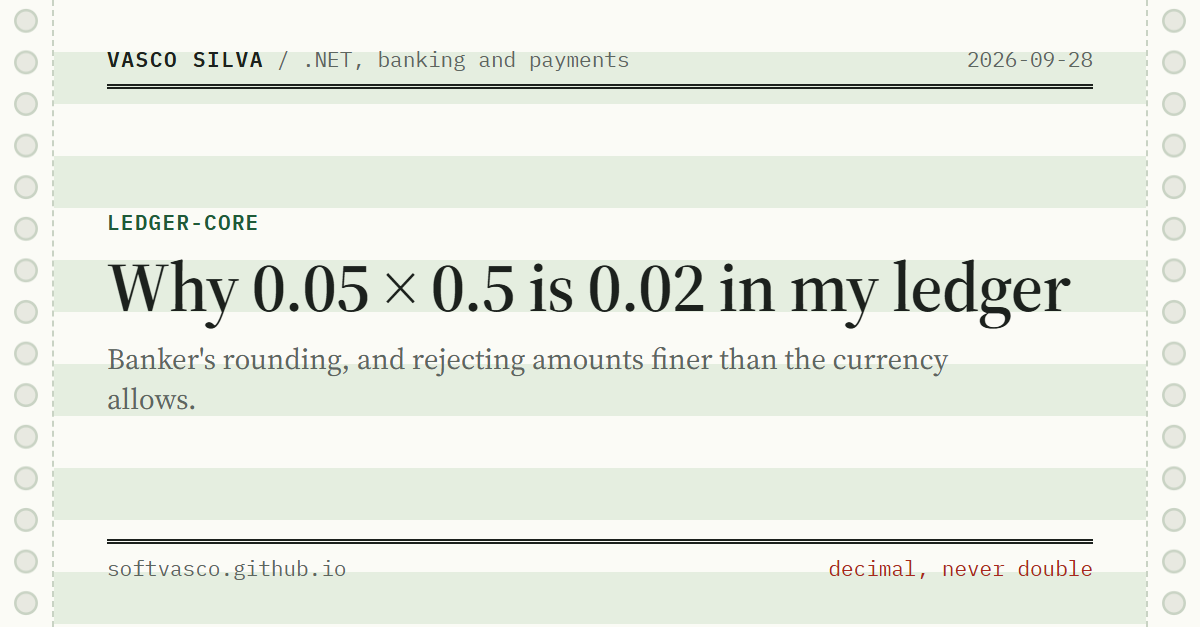
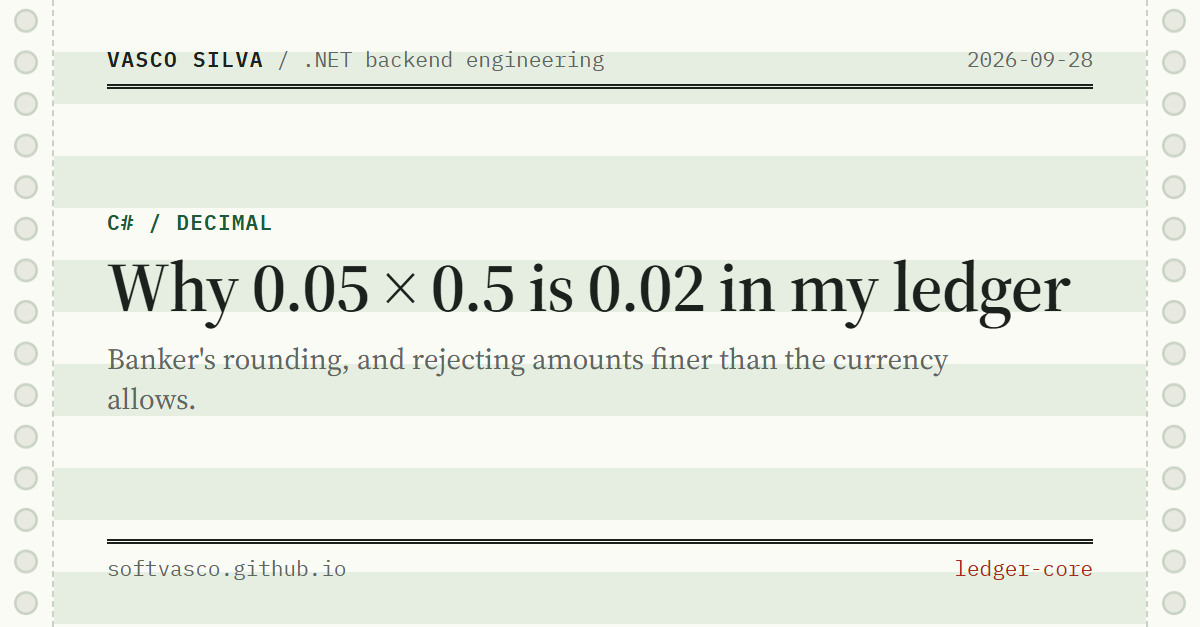
docs(site): present the site as general backend work

Changed region(s): [[0.6783, 0.8788, 0.8942, 0.9394], [0.3083, 0.0909, 0.5242, 0.1212], [0.0925, 0.3333, 0.2158, 0.3636]]

diff --git a/index.html b/index.html
@@ -2,8 +2,8 @@
 layout: default
 ---
 <section class="intro">
-  <p>I'm a senior .NET backend engineer in Lisbon. I've spent more than twelve years on systems for central and retail banks.</p>
-  <p>This year I'm writing open-source versions of two things I know from that work: a double-entry <a href="https://github.com/softvasco/ledger-core">ledger</a> and a <a href="https://github.com/softvasco/payee-match">Verification of Payee</a> name matcher. When something in them takes more thought than expected, I write it up here.</p>
+  <p>I'm a senior .NET backend engineer in Lisbon. I've spent more than twelve years building APIs, event-driven services and migrations of old systems onto current .NET, most of it for banks.</p>
+  <p>This year I'm building open-source projects in public, starting with an event-sourced <a href="https://github.com/softvasco/ledger-core">ledger</a> and a <a href="https://github.com/softvasco/payee-match">name matcher</a>. When something in them takes more thought than expected, I write it up here.</p>
 </section>
 
 <ul class="posts">

diff --git a/_layouts/default.html b/_layouts/default.html
@@ -26,7 +26,7 @@
         <a href="https://github.com/softvasco/ledger-core">ledger-core</a>
         <span>event-sourced double-entry ledger</span>
         <a href="https://github.com/softvasco/payee-match">payee-match</a>
-        <span>Verification of Payee name matching</span>
+        <span>fuzzy name matching</span>
       </div>
     </aside>
     <main>

diff --git a/about.md b/about.md
@@ -2,19 +2,19 @@
 layout: default
 title: About
 permalink: /about/
-description: Vasco Silva, senior .NET backend engineer in Lisbon working on banking and payments systems.
+description: Vasco Silva, senior .NET backend engineer in Lisbon. APIs, event-driven systems and legacy modernisation.
 ---
 
 # About
 
-I'm Vasco, a senior .NET backend engineer based in Lisbon. For more than twelve years I've worked on software for central and retail banks: payments, event-driven architectures, legacy modernisation and the kind of regulated platforms where a rounding rule can end up in an audit.
+I'm Vasco, a senior .NET backend engineer based in Lisbon. I've spent more than twelve years building backend systems: APIs, event-driven services, integrations between systems that were never meant to talk to each other, and migrations of old applications onto current .NET. Most of that work was for central and retail banks, so I'm used to systems where correctness, audit trails and uptime aren't optional.
 
-This year I'm building a few of those problems in the open:
+This year I'm building open-source projects in public:
 
-- [payee-match](https://github.com/softvasco/payee-match): Verification of Payee name matching for .NET, following the EPC scheme that SEPA payment providers have had to support since October 2025.
-- [ledger-core](https://github.com/softvasco/ledger-core): an event-sourced, double-entry banking ledger in .NET 10.
+- [ledger-core](https://github.com/softvasco/ledger-core): an event-sourced, double-entry ledger in .NET 10, with CQRS, an outbox and a PostgreSQL event store.
+- [payee-match](https://github.com/softvasco/payee-match): name matching for .NET, built for the EU Verification of Payee check but useful anywhere two systems spell the same name differently.
 
-The design decisions for each one are written down as ADRs in the repos, and the interesting bits end up here.
+The design decisions for each one are written down as ADRs in the repos, and the parts that take more thought than expected end up here.
 
 Stack I use most: C#, .NET, ASP.NET Core, EF Core, SQL Server, PostgreSQL, Azure and Service Bus, with Rust and Python when they fit better.
 
